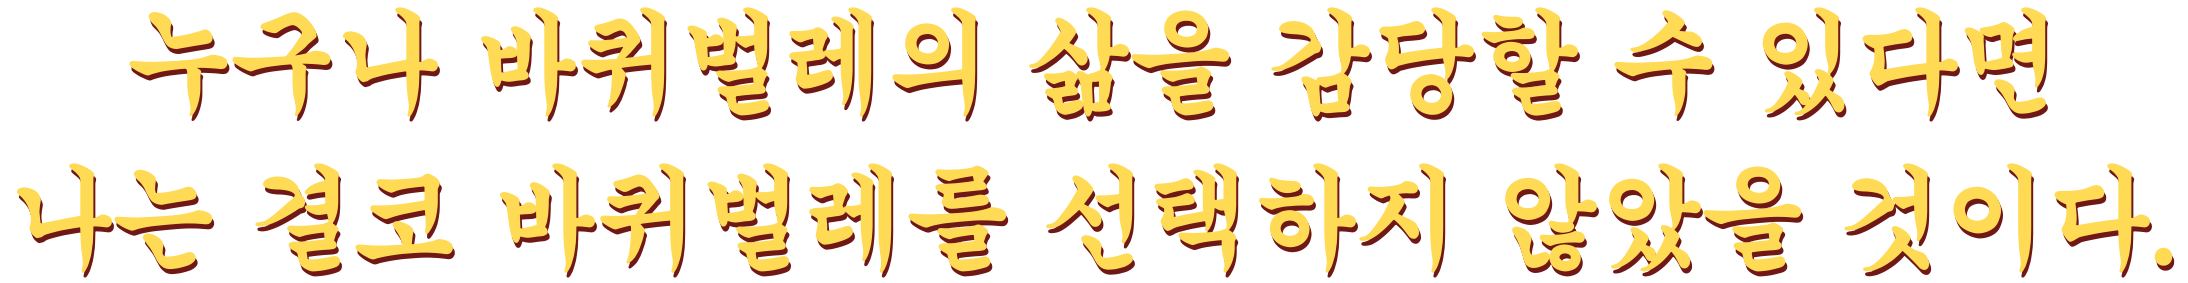
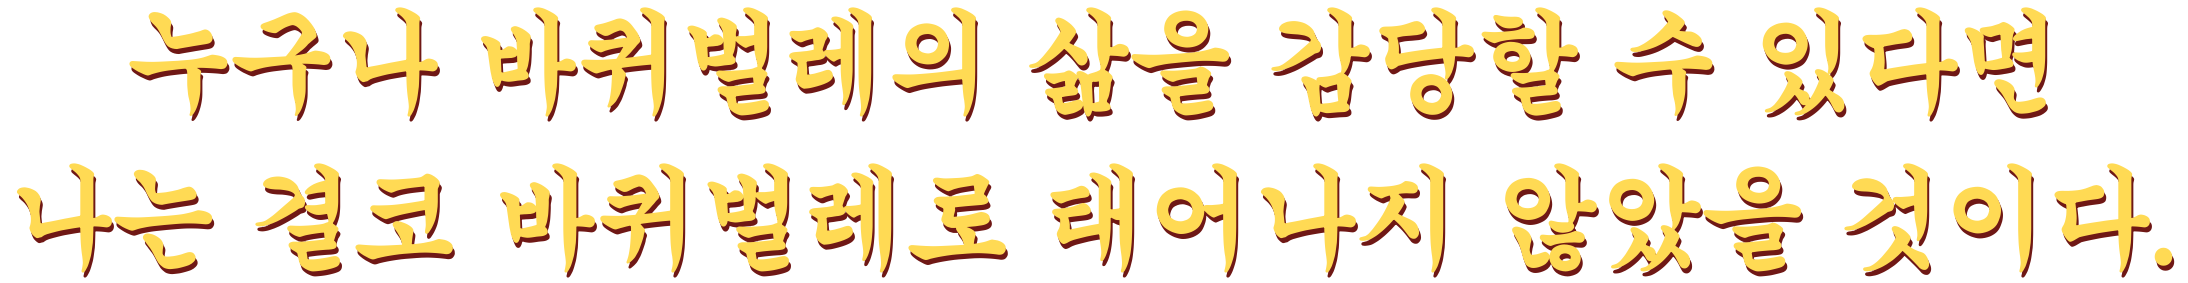
바멍 표어를 “나는 결코 바퀴벌레로 태어나지 않았을 것이다.”로 수정

Changed region(s): [[0.404, 0.5936, 0.6216, 0.9894]]

diff --git a/index.html b/index.html
@@ -126,7 +126,7 @@ html #intro .box,html #mail .card,html #slimeDone .card,html #petName .card{marg
 
 <dialog id="petPlaque" aria-label="테라리움 표어">
   <button type="button" aria-label="표어 닫기" aria-describedby="petMotto"><span class="motto">
-    <span class="words" id="petMotto">누구나 바퀴벌레의 삶을 감당할 수 있다면<br>나는 결코 바퀴벌레를 선택하지 않았을 것이다.</span>
+    <span class="words" id="petMotto">누구나 바퀴벌레의 삶을 감당할 수 있다면<br>나는 결코 바퀴벌레로 태어나지 않았을 것이다.</span>
     <img width="2188" height="283" alt="">
   </span></button>
 </dialog>
@@ -237,7 +237,7 @@ const petPlaque=document.getElementById('petPlaque');
 if(PET_ON){
   const ink=petPlaque.querySelector('img');
   ink.addEventListener('load',()=>petPlaque.classList.add('ink'),{once:true});
-  ink.src='pet-plaque.webp';
+  ink.src='pet-plaque.webp?v=2';
 }
 const pet=PET_ON?createPetMode({
   gameFrame,
